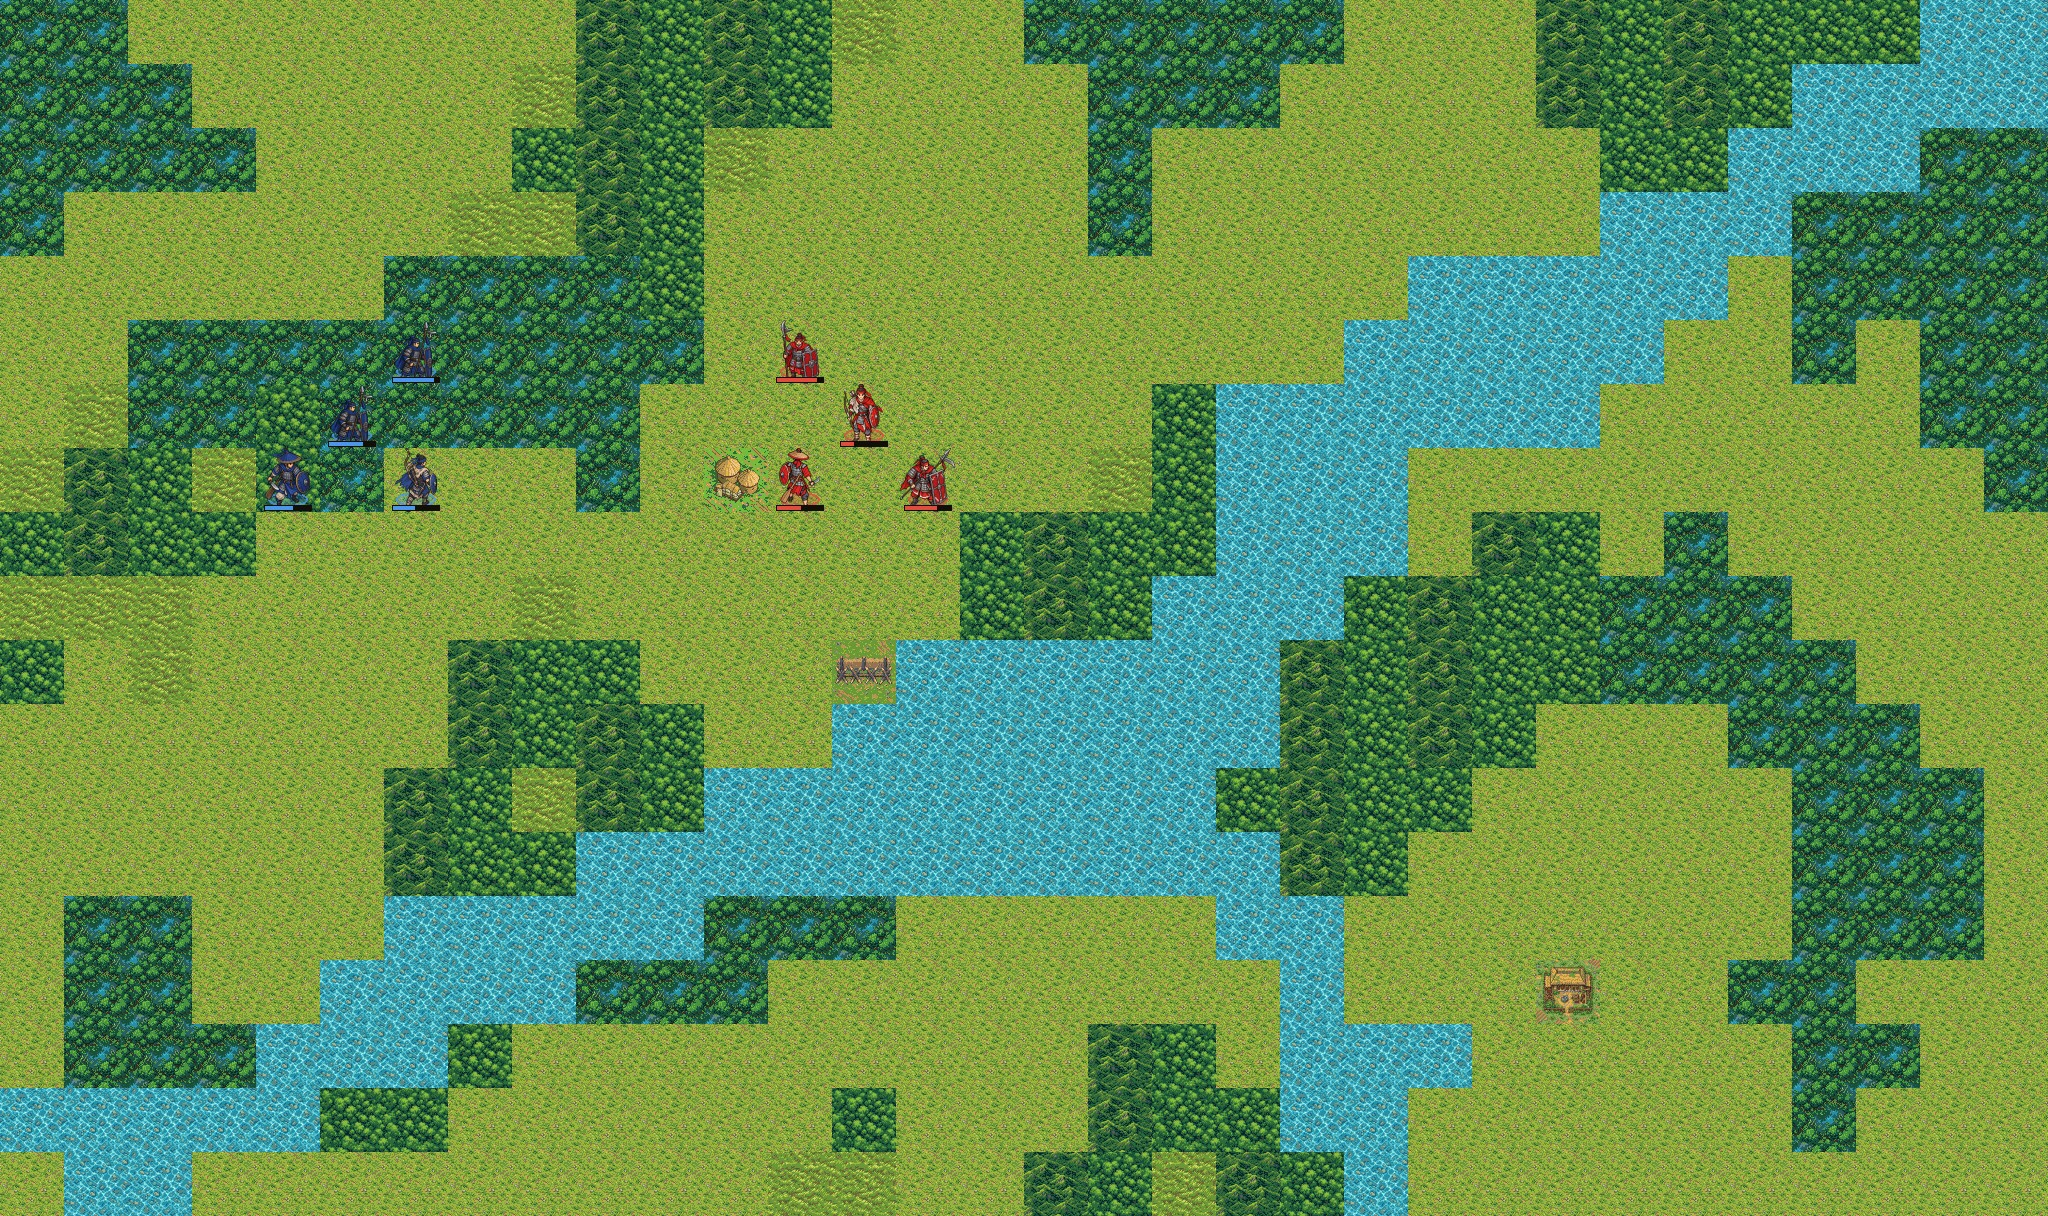
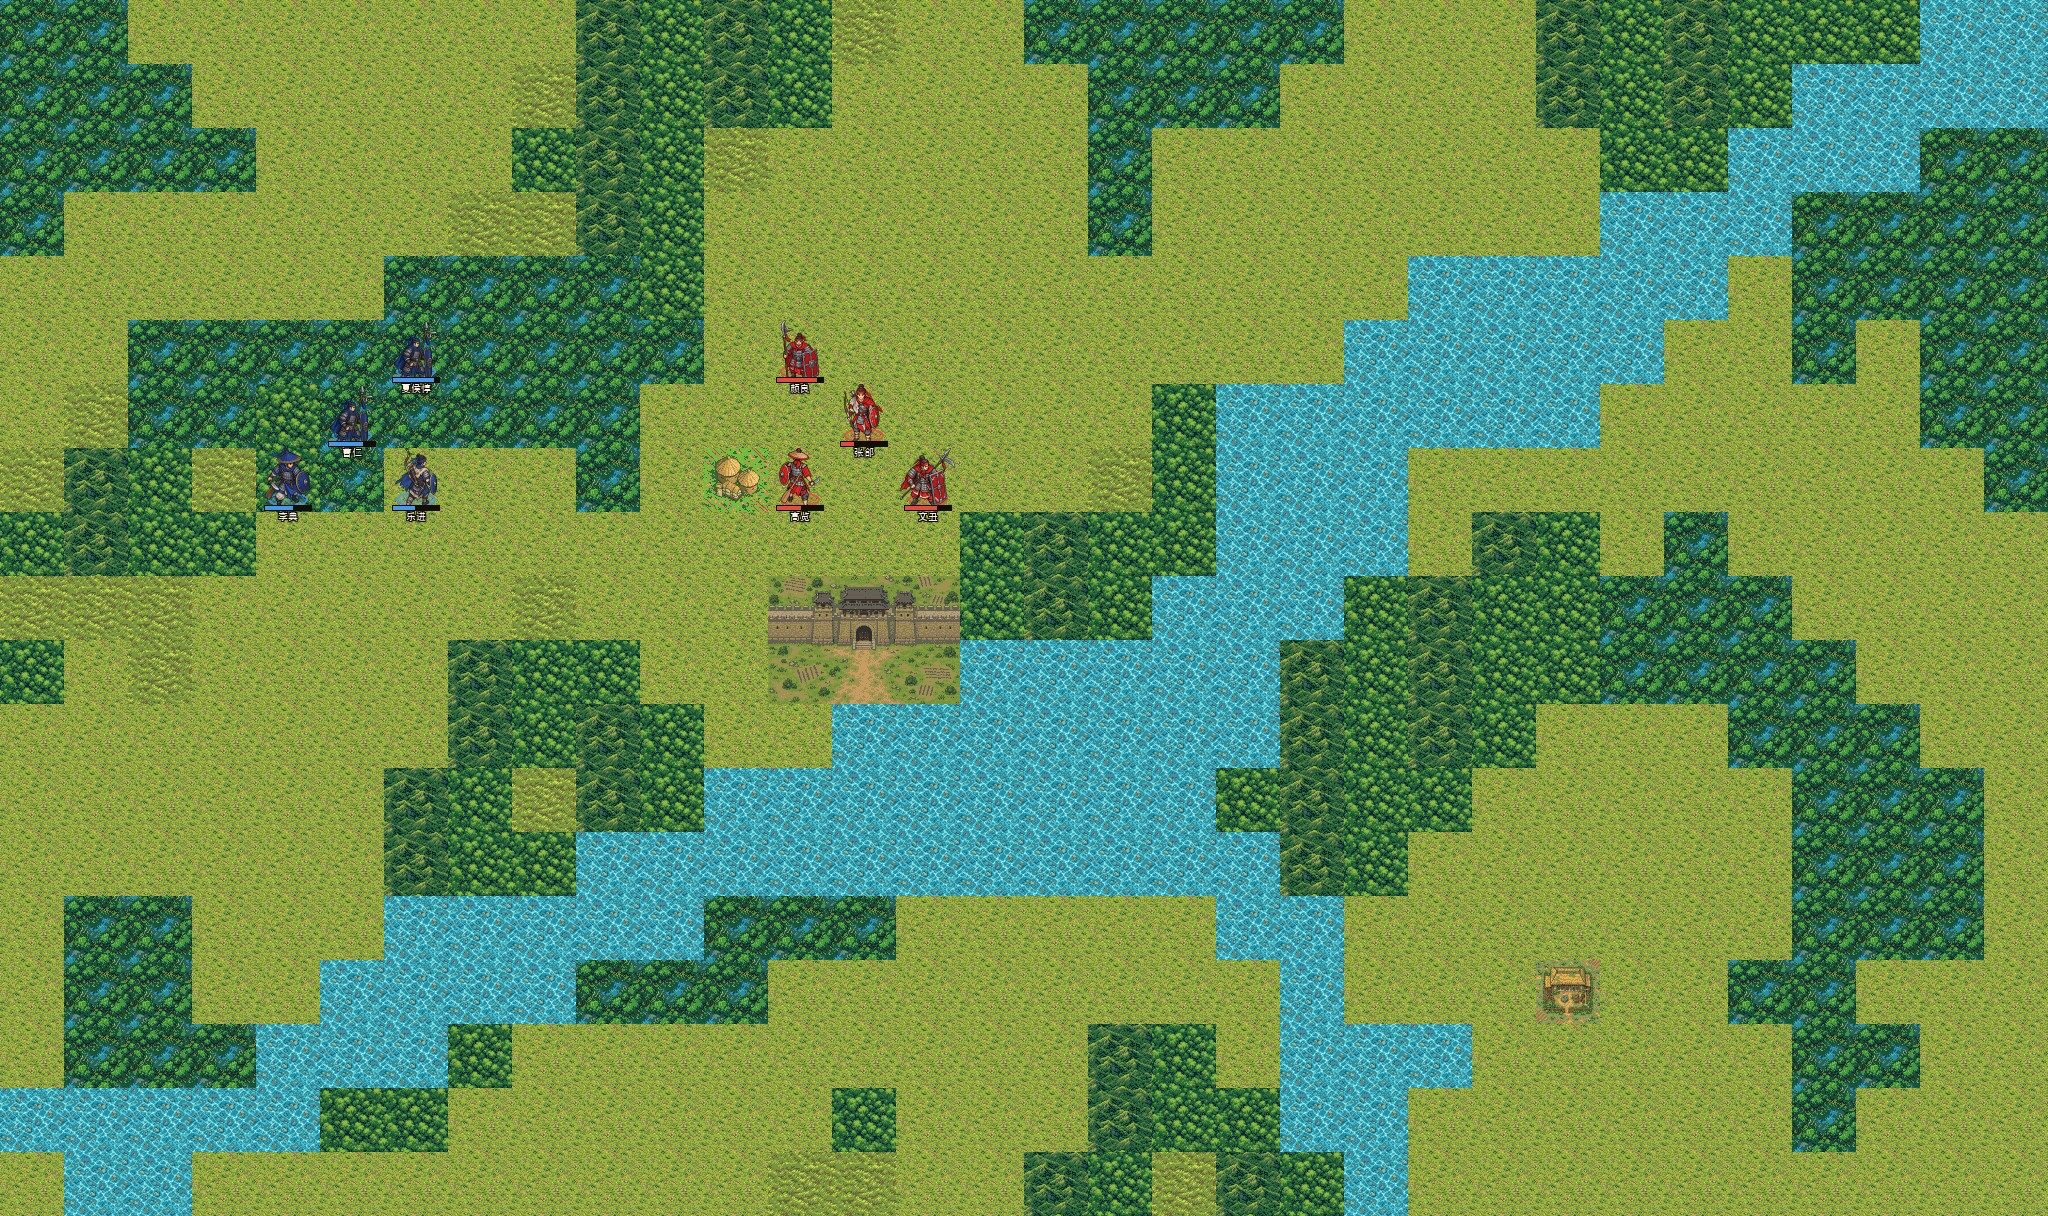
地形码 2 是城池不是障碍；武将名写到兵力条下面
码 2 在 36 张 .map 里每张正好出现一次，位置都在防守方那侧。三条证据：
一图一个不多不少；c.b(x,y) 判 !=2 而 Q() 画单位前要过它——
站在码 2 上的部队不画出来，正是守军在城里；b.java:1819 装载时
按码 2 的位置设初始视野，镜头一开始就对着城。
移动消耗三兵种都是 6，全图最贵——攻进城门要付代价。
我先前把它配成「拒马木栅」是错的。

城要画大：一格 64px 的城混在地形里认不出是座城，
美术上画成跨 3×2 格（192×128），城门对准那一格，逻辑仍只认那一格。

武将名：原版那个小方块显示不了名字，打过来一支部队不知道对面是谁。
补在兵力条下面，黑色描边保证压在任何地块上都看得清。

两个小修：patch-tiles.js 原先只同步提示词不同步 size，改了尺寸不生效；
RGBA 图量化只能用 FASTOCTREE，MAXCOVERAGE 会直接报错。

Changed region(s): [[0.375, 0.4688, 0.4688, 0.5938], [0.1875, 0.3125, 0.2188, 0.3438]]

diff --git a/extract/mapgen/compose_battlefield.py b/extract/mapgen/compose_battlefield.py
@@ -8,7 +8,8 @@
      1            → wuku    武库   (2/3/3)   ← 其他版本里是武器店，本版未接效果
      3            → cang    常平仓 (2/3/3)   ← 同上，金粮店
      4            → yao     药庐   (2/3/3)   ← 疗伤点，本版已实现
-     2            → block   障碍   (6/6/6)
+     2            → castle  城池   (6/6/6)  每张图正好一个，是攻城的目标；
+                                              站在这格上的部队不画（守军在城里）
      5            → ambush  埋伏点 (5/5/5)
      6            → water   水     (5/3/6)
      7, 9         → rock    山岩   (5/6/3)
@@ -28,16 +29,23 @@ ROOT = os.path.normpath(os.path.join(HERE, '..', '..'))
 
 # 7–12 六个码消耗完全一样，可以共用同一张图。
 # 灌木只留一种（码 10、11 共用），山岩一种（码 7、9 共用）。
-SLOT = {0:'ground', 1:'wuku', 2:'block', 3:'cang', 4:'yao', 5:'ambush', 6:'water',
+SLOT = {0:'ground', 1:'wuku', 2:'castle', 3:'cang', 4:'yao', 5:'ambush', 6:'water',
         7:'rock', 8:'forest', 9:'rock', 10:'forest', 11:'forest', 12:'grass'}
 
-def load(slot):
+# 城跨 3×2 格来画：逻辑上仍只有那一格（移动消耗、守军判定都不变），
+# 只是美术画大，否则一格的城混在地形里根本认不出是座城。
+CASTLE_W, CASTLE_H = 3, 2
+
+def load(slot, cells=(1, 1)):
     fs = glob.glob(os.path.join(TILEDIR, 'bt_%s_%s*.png' % (THEME, slot)))
     if not fs: raise SystemExit('缺地块: %s / %s' % (THEME, slot))
-    im = Image.open(sorted(fs, key=os.path.getmtime)[-1]).convert('RGB')
-    return im if im.size == (CELL, CELL) else im.resize((CELL, CELL), Image.NEAREST)
+    im = Image.open(sorted(fs, key=os.path.getmtime)[-1])
+    want = (CELL*cells[0], CELL*cells[1])
+    im = im.convert('RGBA') if slot == 'castle' else im.convert('RGB')
+    return im if im.size == want else im.resize(want, Image.NEAREST)
 
-tiles = {s: load(s) for s in set(SLOT.values())}
+tiles = {s: load(s) for s in set(SLOT.values()) if s != 'castle'}
+castle = load('castle', (CASTLE_W, CASTLE_H))
 
 grid = []
 with open(os.path.join(ROOT, 'extract/data/battlemaps/%s.map' % CID)) as f:
@@ -46,8 +54,9 @@ with open(os.path.join(ROOT, 'extract/data/battlemaps/%s.map' % CID)) as f:
         if line: grid.append([int(v) for v in line.split(',') if v != ''])
 H, W = len(grid), max(len(r) for r in grid)
 
-out = Image.new('RGB', (W*CELL, H*CELL))
+out = Image.new('RGBA', (W*CELL, H*CELL))
 miss = set()
+castle_at = None
 for y, row in enumerate(grid):
     for x in range(W):
         # 有的行比最长行短，末尾按平地补——不补的话那几格会留成黑块
@@ -55,7 +64,18 @@ for y, row in enumerate(grid):
         code = raw & 0xF
         s = SLOT.get(code)
         if s is None: miss.add(code); s = 'ground'
+        if s == 'castle':
+            castle_at = (x, y); s = 'ground'      # 城的那一格先铺地面，城随后整体贴上
         out.paste(tiles[s], (x*CELL, y*CELL))
+
+if castle_at:
+    cx, cy = castle_at
+    # 城门对准那一格：横向居中，纵向让城的底边压在该格底边
+    px = (cx - (CASTLE_W - 1)//2) * CELL
+    py = (cy - (CASTLE_H - 1)) * CELL
+    out.alpha_composite(castle, (max(0, px), max(0, py)))
+    print('城池在格 (%d, %d)，画成 %d×%d 格' % (cx, cy, CASTLE_W, CASTLE_H))
+out = out.convert('RGB')
 out.save(OUT)
 print('战场 %s · %s 主题 → %s  %d×%d 格 / %s' % (CID, THEME, OUT, W, H, out.size))
 if miss: print('⚠ 出现了没有对应槽位的地形码:', sorted(miss))

diff --git a/extract/mapgen/demo_battle.py b/extract/mapgen/demo_battle.py
@@ -1,13 +1,14 @@
 # -*- coding: utf-8 -*-
 """在合成好的战场上摆几支部队，带兵力条，看整体效果。
 
-   原版把兵力编在贴图里（lib51 的 11 列 = 兵力÷100，0–10 封顶）；
-   这里改成脚下一条血条，能连续显示，也不受 1000 兵封顶的限制。
+   原版把兵力编在贴图里（lib51 的 11 列 = 兵力÷100，0–10 封顶），
+   而且**根本显示不了武将名**——打过来一支部队，不知道对面是谁。
+   这里改成脚下一条兵力条（能连续显示，不受 1000 封顶），条下面再写武将名。
 
    用法: demo_battle.py <战场png> <单位目录> <输出png> [格边长=64]
 """
-import sys, os, random
-from PIL import Image, ImageDraw
+import sys, os
+from PIL import Image, ImageDraw, ImageFont
 
 BF, UDIR, OUT = sys.argv[1], sys.argv[2], sys.argv[3]
 CELL = int(sys.argv[4]) if len(sys.argv) > 4 else 64
@@ -15,17 +16,23 @@ CELL = int(sys.argv[4]) if len(sys.argv) > 4 else 64
 bf = Image.open(BF).convert('RGBA')
 W, H = bf.width // CELL, bf.height // CELL
 
-# (列, 行, 阵营, 兵种, 朝向, 兵力)
+# (列, 行, 阵营, 兵种, 朝向, 兵力, 武将名)
 TROOPS = [
-    (6, 5,'blue','ping','e', 900), (5, 6,'blue','ping','e', 750),
-    (6, 7,'blue','shan','ne',480), (4, 7,'blue','shui','se',620),
-    (12,5,'red','ping','s',  880), (13,6,'red','shan','s', 300),
-    (12,7,'red','shui','n',  540), (14,7,'red','ping','se',700),
+    (6, 5,'blue','ping','e', 900,'夏侯惇'), (5, 6,'blue','ping','e', 750,'曹仁'),
+    (6, 7,'blue','shan','ne',480,'乐进'),   (4, 7,'blue','shui','se',620,'李典'),
+    (12,5,'red','ping','s',  880,'颜良'),   (13,6,'red','shan','s', 300,'张郃'),
+    (12,7,'red','shui','n',  540,'高览'),   (14,7,'red','ping','se',700,'文丑'),
 ]
+FONT = None
+for cand in ('/System/Library/Fonts/STHeiti Medium.ttc',
+             '/System/Library/Fonts/Hiragino Sans GB.ttc'):
+    try:
+        FONT = ImageFont.truetype(cand, max(9, CELL//6)); break
+    except Exception: pass
 BAR = {'blue': (78,150,232), 'red': (222,78,64)}
 
 d = ImageDraw.Draw(bf)
-for cx, cy, side, arm, dirk, troops in TROOPS:
+for cx, cy, side, arm, dirk, troops, name in TROOPS:
     flip = False
     key = dirk
     if dirk in ('w','sw','nw'):                      # 西向靠镜像
@@ -54,6 +61,16 @@ for cx, cy, side, arm, dirk, troops in TROOPS:
     bx, by = cx*CELL + (CELL-bw)//2, cy*CELL + CELL - bh - 2
     d.rectangle([bx-1, by-1, bx+bw, by+bh], fill=(18,14,10,235))
     d.rectangle([bx, by, bx + int(bw*min(troops,1000)/1000) - 1, by+bh-1], fill=BAR[side])
+
+    # 武将名写在兵力条下面——原版那个小方块显示不了名字，
+    # 打过来一支部队不知道对面是谁，这是复刻时该补上的
+    if FONT:
+        tx, ty = cx*CELL + CELL//2, by + bh + 1
+        for ox in (-1, 0, 1):
+            for oy in (-1, 0, 1):
+                if ox or oy:
+                    d.text((tx+ox, ty+oy), name, font=FONT, fill=(12,9,5), anchor='ma')
+        d.text((tx, ty), name, font=FONT, fill=(248,242,225), anchor='ma')
 
 bf.convert('RGB').save(OUT)
 print('摆了 %d 支部队 → %s' % (len(TROOPS), OUT))

diff --git a/docs/GAME_LOGIC.md b/docs/GAME_LOGIC.md
@@ -622,7 +622,7 @@ terrain = cell & 0x1F;
 |---|---|---|
 | **5** | **埋伏点**：兵力 ≥100 的部队站上去可埋伏 | `c.java:4955` `bm==5 && J[X]>=100` → `bD="埋伏完毕"` |
 | **4** | **疗伤点**：提示「是否对武将进行治疗?」，体力已满或 `bc<50` 时不可用 | `c.C()` c.java:4612 |
-| **2** | 障碍：`c.b(x,y)` 以 `!=2` 作判定 | c.java:3015 |
+| **2** | **城池** —— 攻城的目标，见 §8.4 | 每张图正好一个 |
 | **1 / 3** | **有专属编号但没有实现效果** —— 见下 | c.java:4831 |
 
 1、3、4 三者都画成同一块房屋图（块 16），但代码里是三种不同的格子。
@@ -643,6 +643,22 @@ terrain = cell & 0x1F;
 所以美术上画成三种不同的房子：**1 = 武库、3 = 常平仓、4 = 药庐**。
 码本来就是三个，分开不花额外成本；复刻时要不要把 1 和 3 的效果补上，
 是个设计选择——补上就是回到其他版本的样子。
+
+### 8.4 地形码 2 是城池，不是障碍 **[已验证]**
+
+**36 张 `.map` 里每一张都正好出现一次**，位置都在防守方那侧
+（`x` 在 5–24、`y` 在 5–16 之间）。三条证据：
+
+1. **数量**：一图一个，不多不少——障碍物不会这么整齐
+2. **`c.b(x,y)` 返回 `(格子 & 0xF) != 2`，而 `Q()` 画单位前要过这个判断**——
+   站在码 2 上的部队**不画出来**，正是「守军在城里」
+3. **`b.java:1819`** 地图装载时按码 2 的位置（`x > 15`？`y > 10`？）
+   设 `bw` / `bx` / `by`，也就是**镜头一开始就对着城**
+
+移动消耗三兵种都是 6，是全图最贵的一格——攻进城门要付代价。
+
+复刻时美术上把城**画成跨 3×2 格**（逻辑仍只占那一格）：
+一格 64px 的城混在地形里根本认不出是座城。
 
 ### 8.3 没有找到地形对战斗力的加成
 
